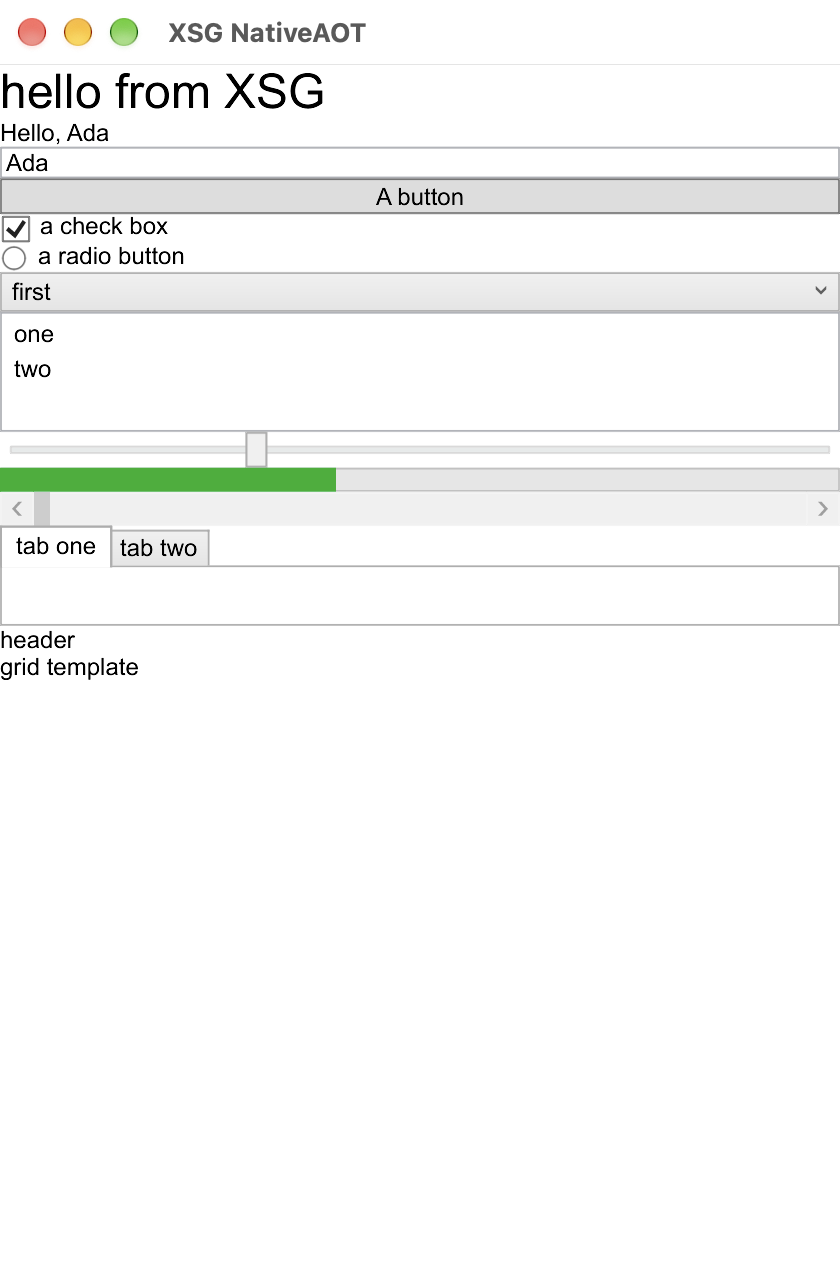
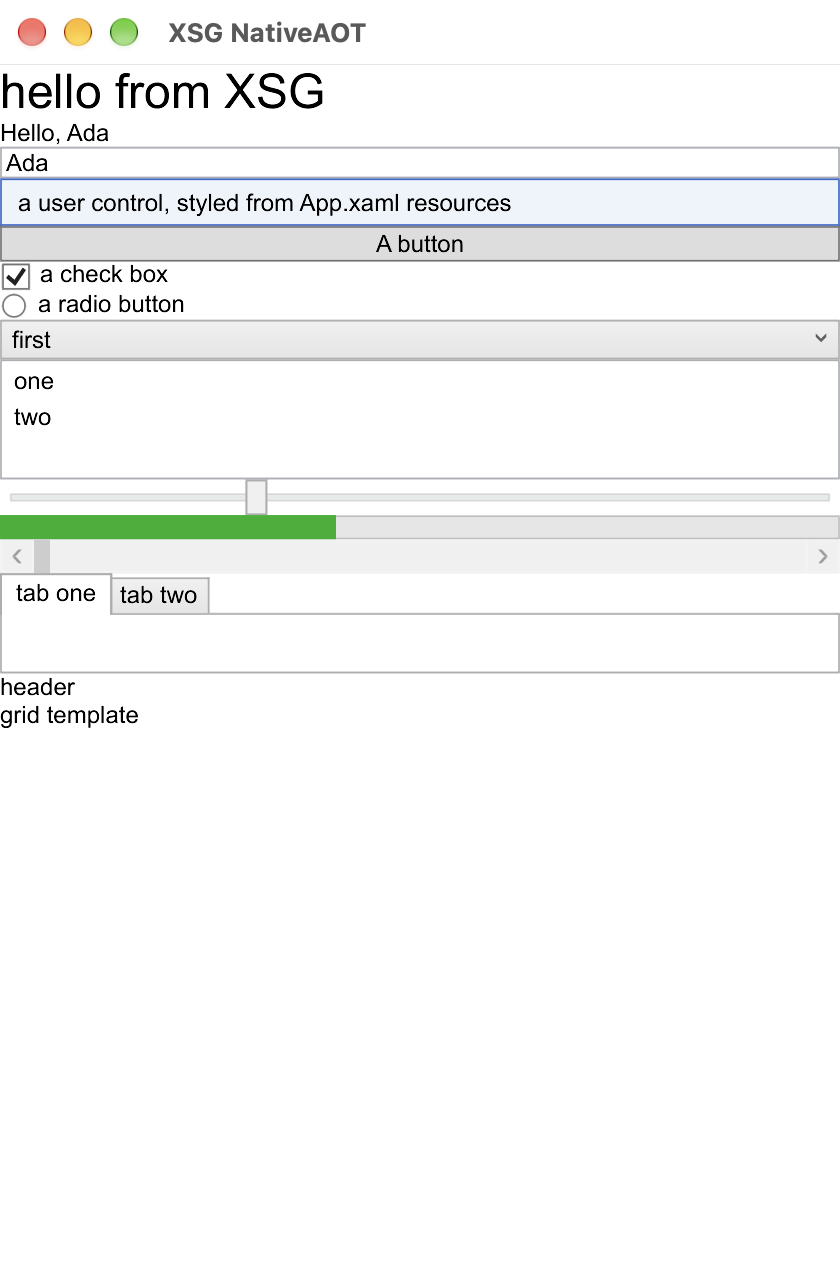
Show App.xaml, StartupUri and dictionary Source in the NativeAOT sample
The sample grows what a real application has beyond a lone window: App.xaml
with StartupUri and a merged Styles/Brushes.xaml, and a UserControl Card.xaml
that uses those resources. None can be read from a resource under NativeAOT;
the bumped LibreWPF generator registers each x:Class root and resolves
StartupUri, Uri values and dictionary Source at build time. Program.cs runs
App, the self-check grows to 11 checks, and the README, output and
screenshots are updated to match.

Changed region(s): [[0.0, 0.125, 1.0, 0.5625]]

diff --git a/samples/XsgNativeAot/MainWindow.xaml b/samples/XsgNativeAot/MainWindow.xaml
@@ -2,12 +2,14 @@
         xmlns="http://schemas.microsoft.com/winfx/2006/xaml/presentation"
         xmlns:x="http://schemas.microsoft.com/winfx/2006/xaml"
         xmlns:vm="clr-namespace:XsgAot"
+        xmlns:local="clr-namespace:XsgAot"
         x:DataType="vm:MainViewModel"
         Title="XSG NativeAOT" Width="420" Height="640">
   <StackPanel Background="White">
     <TextBlock x:Name="Status" Text="hello from XSG" FontSize="24" Foreground="Black" />
     <TextBlock x:Name="Greeting" Text="{Binding Person.Greeting}" />
     <TextBox x:Name="NameBox" Text="{Binding Person.Name, Mode=TwoWay, UpdateSourceTrigger=PropertyChanged}" />
+    <local:Card x:Name="TheCard" Title="a user control, styled from App.xaml resources" />
     <Button x:Name="Action" Content="A button" />
     <CheckBox Content="a check box" IsChecked="True" />
     <RadioButton Content="a radio button" />

diff --git a/samples/XsgNativeAot/App.xaml b/samples/XsgNativeAot/App.xaml
@@ -1,0 +1,13 @@
+<Application x:Class="XsgAot.App"
+             xmlns="http://schemas.microsoft.com/winfx/2006/xaml/presentation"
+             xmlns:x="http://schemas.microsoft.com/winfx/2006/xaml"
+             StartupUri="MainWindow.xaml">
+  <Application.Resources>
+    <ResourceDictionary>
+      <ResourceDictionary.MergedDictionaries>
+        <ResourceDictionary Source="Styles/Brushes.xaml" />
+      </ResourceDictionary.MergedDictionaries>
+      <Thickness x:Key="CardPadding">8,4</Thickness>
+    </ResourceDictionary>
+  </Application.Resources>
+</Application>

diff --git a/samples/XsgNativeAot/Card.xaml b/samples/XsgNativeAot/Card.xaml
@@ -1,0 +1,7 @@
+<UserControl x:Class="XsgAot.Card"
+             xmlns="http://schemas.microsoft.com/winfx/2006/xaml/presentation"
+             xmlns:x="http://schemas.microsoft.com/winfx/2006/xaml">
+  <Border Background="{StaticResource CardBrush}" BorderBrush="{StaticResource AccentBrush}" BorderThickness="1" Padding="{StaticResource CardPadding}">
+    <TextBlock x:Name="Caption" Text="card" />
+  </Border>
+</UserControl>

diff --git a/samples/XsgNativeAot/Styles/Brushes.xaml b/samples/XsgNativeAot/Styles/Brushes.xaml
@@ -1,0 +1,5 @@
+<ResourceDictionary xmlns="http://schemas.microsoft.com/winfx/2006/xaml/presentation"
+                    xmlns:x="http://schemas.microsoft.com/winfx/2006/xaml">
+  <SolidColorBrush x:Key="AccentBrush" Color="#FF3366CC" />
+  <SolidColorBrush x:Key="CardBrush" Color="#FFEEF3FB" />
+</ResourceDictionary>

diff --git a/samples/XsgNativeAot/Program.cs b/samples/XsgNativeAot/Program.cs
@@ -25,39 +25,43 @@ public static class Program
             };
         }
 
-        var app = new Application();
-        var window = new MainWindow();
+        var app = new App();
         if (args.Contains("check"))
         {
-            window.ContentRendered += (_, _) => window.Dispatcher.BeginInvoke(() =>
+            // The window is created by App.xaml's StartupUri during Run: hook it as soon as the dispatcher is running.
+            app.Dispatcher.BeginInvoke(() =>
             {
-                if (Environment.GetEnvironmentVariable("XSGAOT_CAPTURE") is { Length: > 0 } capturePath)
+                var window = (MainWindow)app.MainWindow;
+                window.ContentRendered += (_, _) => window.Dispatcher.BeginInvoke(() =>
                 {
-                    // Let the GPU present a few frames, then save this process's own window.
-                    var timer = new System.Windows.Threading.DispatcherTimer { Interval = TimeSpan.FromSeconds(2) };
-                    timer.Tick += (_, _) =>
+                    if (Environment.GetEnvironmentVariable("XSGAOT_CAPTURE") is { Length: > 0 } capturePath)
                     {
-                        timer.Stop();
-                        Console.WriteLine("capture=" + MacWindowCapture.Save(capturePath, window.Title));
-                        app.Shutdown();
-                    };
-                    timer.Start();
-                    return;
-                }
+                        // Let the GPU present a few frames, then save this process's own window.
+                        var timer = new System.Windows.Threading.DispatcherTimer { Interval = TimeSpan.FromSeconds(2) };
+                        timer.Tick += (_, _) =>
+                        {
+                            timer.Stop();
+                            Console.WriteLine("capture=" + MacWindowCapture.Save(capturePath, window.Title));
+                            app.Shutdown();
+                        };
+                        timer.Start();
+                        return;
+                    }
 
-                try
-                {
-                    SelfCheck.Run(window);
-                }
-                catch (Exception ex)
-                {
-                    Console.WriteLine("self-check failed: " + ex);
-                    Environment.ExitCode = 1;
-                }
-                app.Shutdown(Environment.ExitCode);
-            }, System.Windows.Threading.DispatcherPriority.ApplicationIdle);
+                    try
+                    {
+                        SelfCheck.Run(window);
+                    }
+                    catch (Exception ex)
+                    {
+                        Console.WriteLine("self-check failed: " + ex);
+                        Environment.ExitCode = 1;
+                    }
+                    app.Shutdown(Environment.ExitCode);
+                }, System.Windows.Threading.DispatcherPriority.ApplicationIdle);
+            });
         }
 
-        return app.Run(window);
+        return app.Run();
     }
 }

diff --git a/samples/XsgNativeAot/SelfCheck.cs b/samples/XsgNativeAot/SelfCheck.cs
@@ -80,6 +80,17 @@ internal static class SelfCheck
         var layout = gridButton.Template?.FindName("layout", gridButton) as Grid;
         Check("template initializer", layout is { RowDefinitions.Count: 2 }, $"rows={layout?.RowDefinitions.Count} height0={layout?.RowDefinitions[0].Height}");
 
+        // 5. What a real application has: App.xaml with a StartupUri (no BAML to load the window from), a merged dictionary by Source, and
+        //    a UserControl with its own XAML that uses App.xaml's resources.
+        Check("startup uri", ReferenceEquals(Application.Current.MainWindow, window), $"MainWindow is {Application.Current.MainWindow?.GetType().Name}");
+        var accent = Application.Current.Resources["AccentBrush"] as System.Windows.Media.SolidColorBrush;
+        Check("merged dictionary", accent?.Color == System.Windows.Media.Color.FromRgb(0x33, 0x66, 0xCC)
+            && Application.Current.Resources["CardPadding"] is Thickness { Left: 8, Top: 4 }, $"AccentBrush={accent?.Color} CardPadding={Application.Current.Resources["CardPadding"]}");
+        var card = (Card)window.FindName("TheCard")!;
+        var cardBorder = card.Content as Border;
+        Check("user control", card.Title.StartsWith("a user control") && cardBorder?.Background is System.Windows.Media.SolidColorBrush { Color: { R: 0xEE, G: 0xF3, B: 0xFB } },
+            $"title='{card.Title}' background={cardBorder?.Background}");
+
         Console.WriteLine(ok ? "PASS" : "FAIL");
         Environment.ExitCode = ok ? 0 : 1;
     }

diff --git a/samples/XsgNativeAot/Card.xaml.cs b/samples/XsgNativeAot/Card.xaml.cs
@@ -1,0 +1,12 @@
+namespace XsgAot;
+
+public partial class Card : System.Windows.Controls.UserControl
+{
+    public Card() => InitializeComponent();
+
+    public string Title
+    {
+        get => Caption?.Text ?? "";
+        set { if (Caption is not null) Caption.Text = value; }
+    }
+}

diff --git a/samples/XsgNativeAot/App.xaml.cs b/samples/XsgNativeAot/App.xaml.cs
@@ -1,0 +1,8 @@
+using System.Windows;
+
+namespace XsgAot;
+
+public partial class App : Application
+{
+    public App() => InitializeComponent();
+}

diff --git a/samples/XsgNativeAot/README.md b/samples/XsgNativeAot/README.md
@@ -16,23 +16,27 @@ bin/Release/net10.0-windows/osx-arm64/publish/XsgAot          # the window
 bin/Release/net10.0-windows/osx-arm64/publish/XsgAot check    # self-check, prints PASS/FAIL and exits
 ```
 
-`check` output on 2026-11-23 (Apple silicon, Xcode SDK via `SDKROOT`):
+`check` output on 2026-11-23 (Apple silicon, Xcode SDK via `SDKROOT`; the window is the sample's `MainWindow` with the real Aero2 theme):
 
 ```text
 nativeaot=True
 ok   window template: Border > AdornerDecorator
-ok   layout: 420x208
-ok   button template: border=420x19.798828125 background=#FFDDDDDD
+ok   layout: 420x608
+ok   button template: border=420x17.798828125 background=#FFDDDDDD
 ok   binding source->target: greeting='Hello, Ada' name='Ada'
 ok   binding INPC update: greeting='Hello, Grace' name='Grace'
 ok   binding TwoWay target->source: vm.Name='Linus' greeting='Hello, Linus'
 ok   binding is compiled: path='(0).(1)' parameters=2
+ok   template initializer: rows=2 height0=Auto
+ok   startup uri: MainWindow is MainWindow
+ok   merged dictionary: AccentBrush=#FF3366CC CardPadding=8,4,8,4
+ok   user control: title='a user control, styled from App.xaml resources' background=#FFEEF3FB
 PASS
 ```
 
-`./compare-jit-aot.sh` runs the same window (ten controls: Button, CheckBox, RadioButton, ComboBox, ListBox, Slider, ProgressBar, ScrollBar,
-TabControl, a custom template) in the JIT build, which uses the in-box BAML Aero2, and in the NativeAOT build, which uses Aero2 compiled by XSG, and
-diffs the visual trees (type and size of every element). Result: **129 elements in both, identical**, except that the outermost client-area height
+`./compare-jit-aot.sh` runs the same window (a UserControl from its own XAML plus Button, CheckBox, RadioButton, ComboBox, ListBox, Slider, ProgressBar,
+ScrollBar, TabControl, a custom template) in the JIT build, which uses the in-box BAML Aero2, and in the NativeAOT build, which uses Aero2 compiled by XSG, and
+diffs the visual trees (type and size of every element). Result: **134 elements in both, identical**, except that the outermost client-area height
 is 612 in JIT and 608 in AOT (the native window frame; nothing inside the window differs).
 
 **Pixels** (`./compare-pixels.sh`, screenshots in `screenshots/`): the same window rendered by the JIT build (BAML Aero2) and by the NativeAOT
@@ -50,6 +54,10 @@ DevFlow (`LeXtudio.DevFlow.Agent.LibreWpf` 0.3.1, tried here by adding the packa
 status, actions and tree work. Under NativeAOT its HTTP server starts but every request fails with "Reflection-based serialization has been disabled" (`System.Text.Json` without a
 source-generated context): the agent itself is not NativeAOT-compatible yet.
 
+The window is created by `App.xaml`'s `StartupUri`, `App.xaml` merges `Styles/Brushes.xaml` with `Source=`, and `Card.xaml` is a `UserControl` of
+its own: the three things a real application has that a lone window does not. None of them can be loaded from a resource under NativeAOT; see
+"Application, `StartupUri` and `Source`" in LibreWPF's `Documentation/XamlSourceGeneratorUsage.md`.
+
 ## What makes it work
 
 | Problem under NativeAOT | What failed | Fix |
@@ -62,6 +70,7 @@ source-generated context): the agent itself is not NativeAOT-compatible yet.
 | Real Aero2 does not build as a theme | `UseWPF` references every in-box theme assembly, several define `SystemDropShadowChrome`. | The theme project keeps only the Aero2 reference (`KeepOnlyAero2Theme` target). |
 | Document viewers cannot load | `System.Printing` is C++/CLI and Windows-only; its portable implementation has 1 of 56 public types. ILC replaces every method that needs `XpsDocumentWriter` (`DocumentViewerBase`, `FlowDocumentReader`, ...) with a throwing stub, including the theme's `InitializeComponent`. | Printing stays Windows-only: `LibreWpfXsgExcludeTargetTypes` (comma-separated: a `;` starts an .editorconfig comment) leaves the styles of `DocumentViewer`, `FlowDocument*`, `FixedDocument*` out of this theme. |
 | Templates need more than `SetValue` | `FrameworkElementFactory` sets dependency properties only. | Three additive hooks: `SetInitializer` (fill a collection / set an object property after creation), `SetAttacher` (`Track.Thumb`, named `RowDefinition`s: the item is a real, named, targetable template node), `SetCreator` (`new T()` instead of `Activator.CreateInstance`). The content property written as an element (`<Border.Child>`) becomes an ordinary factory child. |
+| `StartupUri`, `ResourceDictionary Source=`, `UserControl` | BAML resolves them at run time with `Application.LoadComponent` and pack URIs: no resource to read. | Each `x:Class` root object except the `Application` (a window, page or user control that can be created without arguments) is registered by resource path (`RegisterComponent`) and `LoadComponent(Uri)` asks that registry first; `Source` is resolved at build time to a registry lookup; `Uri` values are typed. |
 | A DataTrigger's `Value="True"` | `DefaultValueConverter.GetConverter` goes through the BAML known-type table, which `Activator`-creates `BooleanConverter`. | Under NativeAOT only (`RuntimeFeature.IsDynamicCodeSupported` is false) it uses `TypeDescriptor`'s intrinsic converters first. |
 | `StaticResource` of a key defined in a local `.Resources` | The key exists on the instance / style, not in the theme dictionary. | Looked up when applied (`SetResourceReference`, `DynamicResourceExtension`); `Style.Resources` / `ControlTemplate.Resources` / `Grid.Resources` are generated, and the generated dictionary keeps a scope stack for what is being built. |
 
